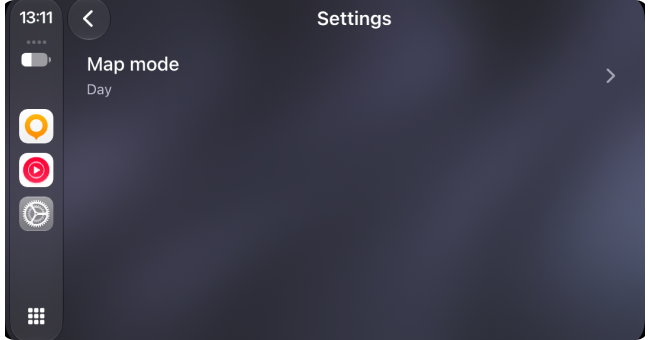
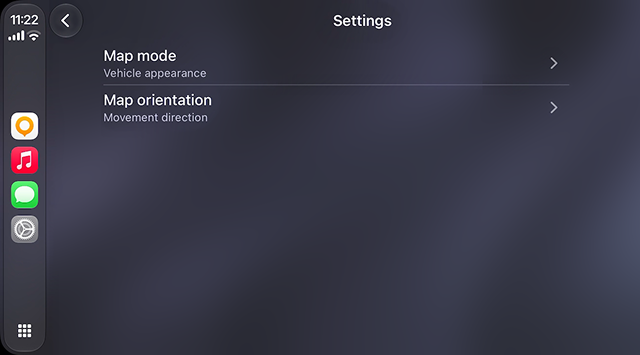
Add section

diff --git a/main/docs/user/navigation/car-play.md b/main/docs/user/navigation/car-play.md
@@ -333,6 +333,20 @@ You can choose one of the following appearance modes:
 
 **Note:** The Map mode setting in CarPlay only affects the map appearance in CarPlay. It does not change the Map mode on your phone screen.
 
+### Map Orientation {#map-orientation}
+
+![Map Orientation](@site/static/img/navigation/auto-car/map_orientation_carplay.webp)
+
+The *Map orientation* setting defines how the map rotates on the CarPlay screen. To open this setting, tap the *Settings* button in the CarPlay navigation bar, then select *Map orientation*. The current orientation is shown as the row's detail text.
+
+You can choose one of the following orientation modes:
+- **Manually rotated** — The map does not rotate automatically.
+- **Movement direction** — The map rotates to follow your direction of travel.
+- **Compass direction** — The map rotates to follow the iPhone compass, so the map's north matches the real north.
+- **North is up** — The north always stays at the top of the screen.
+
+**Note:** Map orientation is a profile setting shared between CarPlay and the OsmAnd app on your iPhone. A change made on one screen applies to the other. For more details, see the [Map Orientation Modes](../widgets/map-buttons.md#map-orientation-modes) article.
+
 ### Location Position in CarPlay {#location-position-in-carplay}
 
 The OsmAnd app for *CarPlay* allows you to adjust the position of the current location indicator on the screen to avoid overlapping the route and other important map details.
